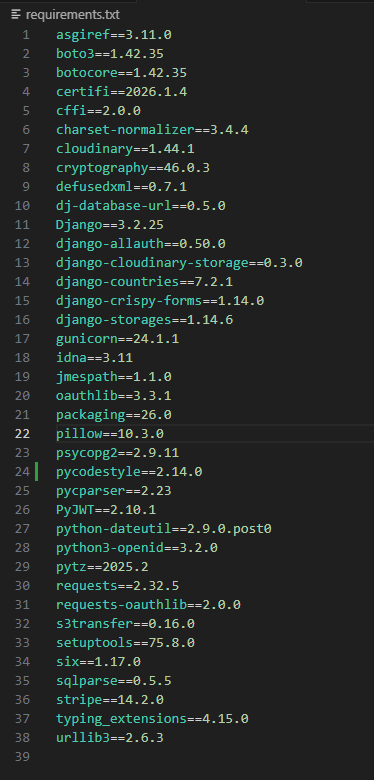
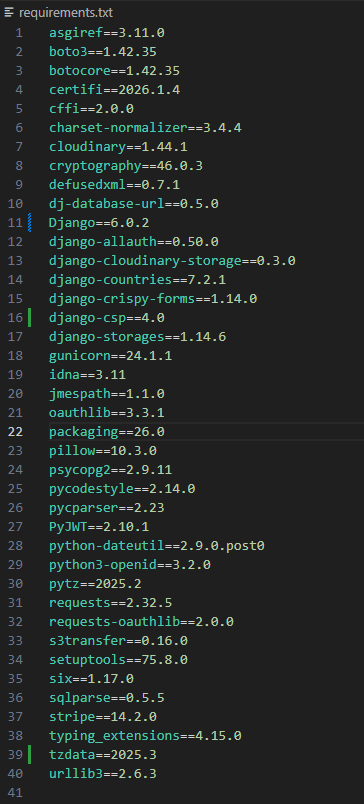
Image optimisation

Changed region(s): [[0.0, 0.0, 0.7253, 1.0], [0.7555, 0.3077, 0.8159, 0.3385]]

diff --git a/templates/base.html b/templates/base.html
@@ -12,9 +12,14 @@
 <head>
 
     {% block meta %}
+    <link rel="preconnect" href="https://js.stripe.com">
+    <link rel="preconnect" href="https://ka-f.fontawesome.com">
+    <link rel="preconnect" href="https://cdn.jsdelivr.net">
     <meta http-equiv="X-UA-Compatible" content="IE=edge">
     <meta charset="utf-8">
     <meta name="viewport" content="width=device-width, initial-scale=1, shrink-to-fit=no">
+    <!--SEO Meta Description-->
+    <meta name="description" content="The Endurance Lab - elite endurance nutrition, hydration, energy and recovery products designed for high-performance athletes. Precision fuel for the 1%.">
     {% endblock meta %}
 
     {% block extra_meta %}
@@ -29,17 +34,10 @@
     <link href="https://fonts.googleapis.com/css2?family=Bebas+Neue&family=Manrope:wght@200..800&display=swap" rel="stylesheet">
     <link rel="stylesheet" href="{% static 'css/base.css' %}">
     <!--Stripe JS-->
-    <script src="https://js.stripe.com/v3/"></script>
+    <script src="https://js.stripe.com/v3/" async></script>
     {% endblock core_css %}
 
     {% block extra_css %}{% endblock extra_css %}
-
-    {% block core_js %}
-    <script src="https://kit.fontawesome.com/07874c836d.js" crossorigin="anonymous"></script>
-    <script src="https://code.jquery.com/jquery-3.7.1.min.js" integrity="sha256-/JqT3SQfawRcv/BIHPThkBvs0OEvtFFmqPF/lYI/Cxo=" crossorigin="anonymous"></script>
-    <script src="https://cdn.jsdelivr.net/npm/popper.js@1.16.0/dist/umd/popper.min.js" integrity="sha384-Q6E9RHvbIyZFJoft+2mJbHaEWldlvI9IOYy5n3zV9zzTtmI3UksdQRVvoxMfooAo" crossorigin="anonymous"></script>
-    <script src="https://cdn.jsdelivr.net/npm/bootstrap@4.4.1/dist/js/bootstrap.min.js" integrity="sha384-wfSDF2E50Y2D1uUdj0O3uMBJnjuUD4Ih7YwaYd1iqfktj0Uod8GCExl3Og8ifwB6" crossorigin="anonymous"></script>
-    {% endblock core_js %}
 
     {% block extra_js %}{% endblock extra_js %}
 
@@ -58,7 +56,7 @@
         <div id="top-nav" class="row pt-lg-2 d-none d-lg-flex">
             <div class="col-12 col-lg-4 my-auto py-1 py-lg-0 text-center text-lg-left">
                 <a href="{{ home_url }}" class="nav-link main-logo-link p-0">
-                    <img src="{% static 'images/logo-white.png' %}" alt="The Endurance Lab Logo" class="logo">
+                    <img src="{% static 'images/logo-white.png' %}" alt="The Endurance Lab Logo" class="logo" width="200" height="60">
                 </a>
             </div>
 
@@ -148,12 +146,6 @@
         {% endblock content %}
     </main>
 
-    {% block postloadjs %}
-    <script>
-        $('.toast').toast('show');
-    </script>
-    {% endblock postloadjs %}
-
     <!-- Footer -->
     <footer class="container my-5 py-5 border-top">
         <div class="row align-items-center">
@@ -202,6 +194,18 @@
             </div>
         </div>
     </footer>
+     {% block core_js %}
+    <script src="https://kit.fontawesome.com/07874c836d.js" crossorigin="anonymous"></script>
+    <script src="https://code.jquery.com/jquery-3.7.1.min.js" integrity="sha256-/JqT3SQfawRcv/BIHPThkBvs0OEvtFFmqPF/lYI/Cxo=" crossorigin="anonymous"></script>
+    <script src="https://cdn.jsdelivr.net/npm/popper.js@1.16.0/dist/umd/popper.min.js" integrity="sha384-Q6E9RHvbIyZFJoft+2mJbHaEWldlvI9IOYy5n3zV9zzTtmI3UksdQRVvoxMfooAo" crossorigin="anonymous"></script>
+    <script src="https://cdn.jsdelivr.net/npm/bootstrap@4.4.1/dist/js/bootstrap.min.js" integrity="sha384-wfSDF2E50Y2D1uUdj0O3uMBJnjuUD4Ih7YwaYd1iqfktj0Uod8GCExl3Og8ifwB6" crossorigin="anonymous"></script>
+    {% endblock core_js %}
+
+    {% block postloadjs %}
+    <script>
+        $('.toast').toast('show');
+    </script>
+    {% endblock postloadjs %}
 </body>
 
 </html>

diff --git a/the_endurance_lab/settings.py b/the_endurance_lab/settings.py
@@ -61,6 +61,44 @@ INSTALLED_APPS = [
     'storages',
 ]
 
+# --- SECURITY SETTINGS ---
+
+SECURE_BROWSER_XSS_FILTER = True
+SECURE_CONTENT_TYPE_NOSNIFF = True
+
+if not DEBUG:
+    SECURE_SSL_REDIRECT = True
+    SECURE_HSTS_SECONDS = 31536000  # 1 year
+    SECURE_HSTS_INCLUDE_SUBDOMAINS = True
+    SECURE_HSTS_PRELOAD = True
+
+# Content Security Policy
+
+CSP_DEFAULT_SRC = ("'self'",)
+CSP_SCRIPT_SRC = (
+    "'self'",
+    "https://js.stripe.com",
+    "https://code.jquery.com",
+    "https://cdn.jsdelivr.net",
+    "https://kit.fontawesome.com",
+    "https://ka-f.fontawesome.com"
+)
+CSP_STYLE_SRC = (
+    "'self'",
+    "'unsafe-inline'",
+    "https://fonts.googleapis.com",
+    "https://cdn.jsdelivr.net",
+    "https://ka-f.fontawesome.com"
+)
+CSP_FONT_SRC = (
+    "'self'",
+    "https://fonts.gstatic.com",
+    "https://ka-f.fontawesome.com"
+)
+CSP_IMG_SRC = ("'self'", "https://res.cloudinary.com", "data:", "https://*.amazonaws.com")
+CSP_FRAME_SRC = ("'self'", "https://js.stripe.com")
+
+
 MIDDLEWARE = [
     'django.middleware.security.SecurityMiddleware',
     'django.contrib.sessions.middleware.SessionMiddleware',
@@ -69,6 +107,7 @@ MIDDLEWARE = [
     'django.contrib.auth.middleware.AuthenticationMiddleware',
     'django.contrib.messages.middleware.MessageMiddleware',
     'django.middleware.clickjacking.XFrameOptionsMiddleware',
+    'csp.middleware.CSPMiddleware',
 ]
 
 ROOT_URLCONF = 'the_endurance_lab.urls'
